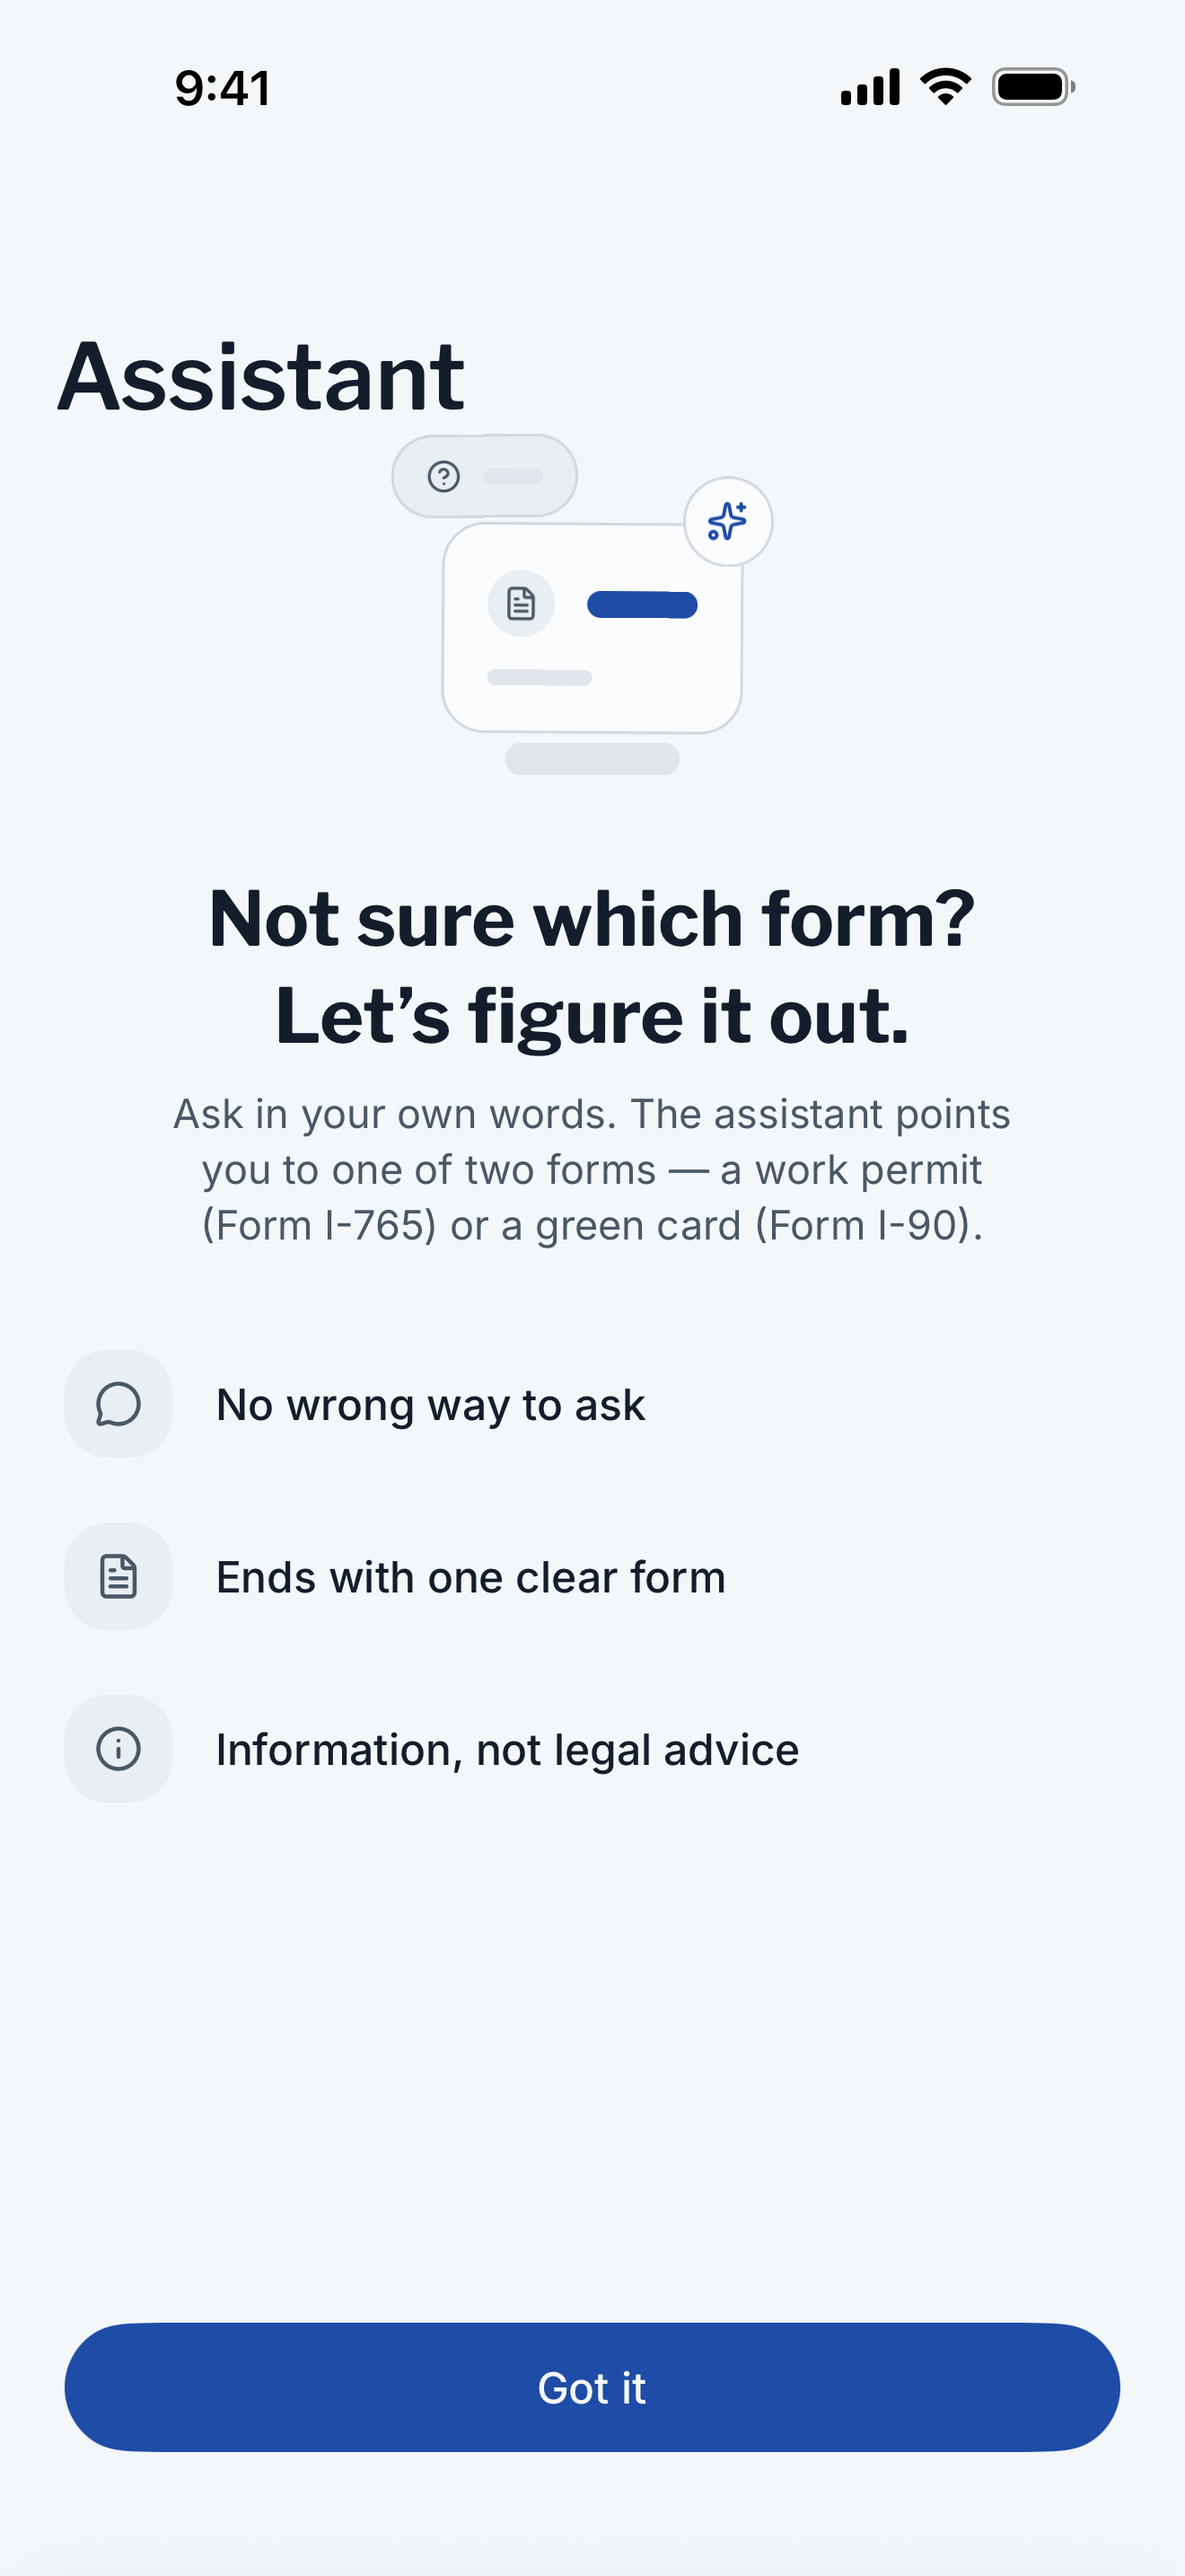
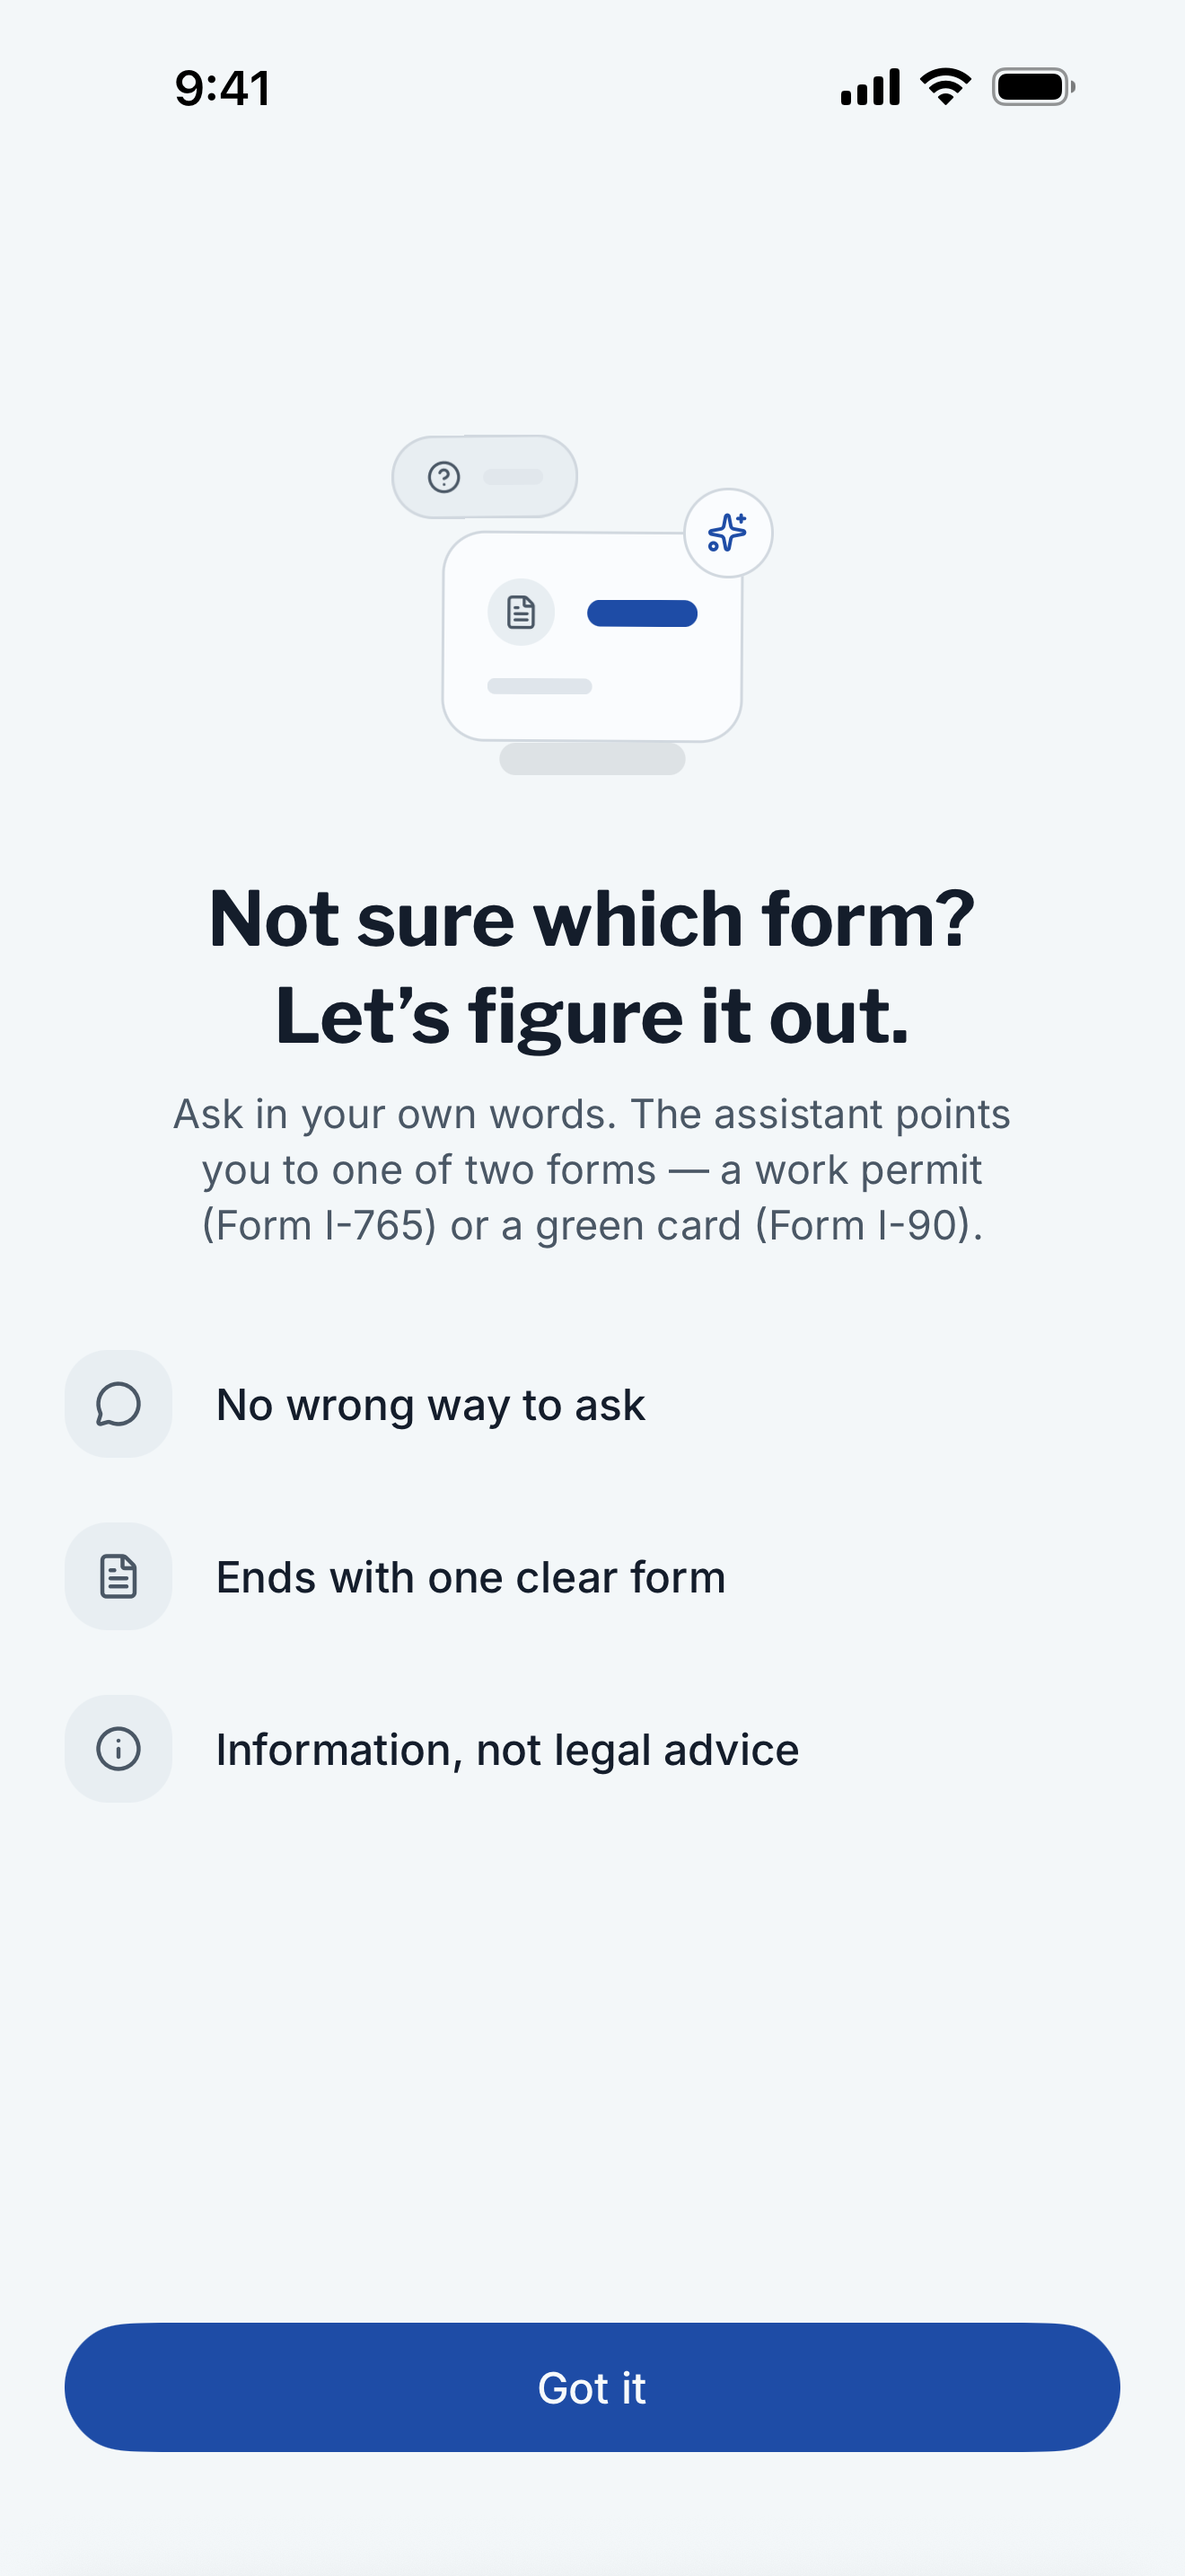
fix: hide the Assistant title while its tab intro is showing
The intro cover is absolute inside the tab content view, so it hides the large title of any tab whose root is a large-title ScrollView (Cases, Resources, Account). The assistant chat owns its own layout, so its title stays in the navigation bar above the cover and sat on top of the intro. TabIntro now accepts renderTitle, mirroring renderToolbar: the title receives the same hidden state as the native tab bar and returns while the cover is still opaque, so the same fade reveals it. Also refreshes the 6.9-inch assistant screenshot.

Changed region(s): [[0.0621, 0.1241, 0.4038, 0.2172], [0.497, 0.1862, 0.6523, 0.2483], [0.4038, 0.2172, 0.497, 0.2793]]

diff --git a/src/app/(tabs)/assistant/index.tsx b/src/app/(tabs)/assistant/index.tsx
@@ -9,51 +9,56 @@ import { View } from 'react-native'
  * it replaced sat on top of the Forms and Cases surfaces and was reported
  * as being in the way; a dedicated tab gives it room without crowding
  * either surface. The screen itself — navigator, quota, retry — is
- * unchanged from the bubble sheet. */
+ * unchanged from the bubble sheet.
+ *
+ * The title goes through the intro's `renderTitle` rather than sitting
+ * beside it: this screen owns its own layout instead of being a root
+ * large-title ScrollView, so its title lives in the navigation bar, above
+ * the intro cover. Handing it over withholds it for exactly as long as the
+ * tab bar is hidden. */
 export default function AssistantTab() {
 	const themeColorForeground = useThemeColor('foreground')
 	return (
-		<>
-			<Stack.Title
-				large
-				largeStyle={{
-					fontFamily: 'LibreFranklin_600SemiBold',
-					color: themeColorForeground,
-				}}
+		<View className="flex-1">
+			<TabIntro
+				prefKey="assistantIntroDismissed"
+				renderTitle={(hidden) => (
+					<Stack.Title
+						large
+						largeStyle={{
+							fontFamily: 'LibreFranklin_600SemiBold',
+							color: themeColorForeground,
+						}}
+					>
+						{hidden ? '' : 'Assistant'}
+					</Stack.Title>
+				)}
+				hero={<AssistantHero width={112} />}
+				title={'Not sure which form?\nLet’s figure it out.'}
+				body="Ask in your own words. The assistant points you to one of two forms — a work permit (Form I-765) or a green card (Form I-90)."
+				features={[
+					{
+						icon: 'message-circle',
+						title: 'No wrong way to ask',
+						detail:
+							'Describe your situation however it comes out — no form numbers or legal terms needed.',
+					},
+					{
+						icon: 'file-text',
+						title: 'Ends with one clear form',
+						detail:
+							'It narrows Form I-765 and Form I-90 down to the one that fits what you described.',
+					},
+					{
+						icon: 'info',
+						title: 'Information, not legal advice',
+						detail:
+							'For eligibility or a specific decision, it points you to an attorney or accredited representative.',
+					},
+				]}
 			>
-				Assistant
-			</Stack.Title>
-
-			<View className="flex-1">
-				<TabIntro
-					prefKey="assistantIntroDismissed"
-					hero={<AssistantHero width={112} />}
-					title={'Not sure which form?\nLet’s figure it out.'}
-					body="Ask in your own words. The assistant points you to one of two forms — a work permit (Form I-765) or a green card (Form I-90)."
-					features={[
-						{
-							icon: 'message-circle',
-							title: 'No wrong way to ask',
-							detail:
-								'Describe your situation however it comes out — no form numbers or legal terms needed.',
-						},
-						{
-							icon: 'file-text',
-							title: 'Ends with one clear form',
-							detail:
-								'It narrows Form I-765 and Form I-90 down to the one that fits what you described.',
-						},
-						{
-							icon: 'info',
-							title: 'Information, not legal advice',
-							detail:
-								'For eligibility or a specific decision, it points you to an attorney or accredited representative.',
-						},
-					]}
-				>
-					<AssistantScreen />
-				</TabIntro>
-			</View>
-		</>
+				<AssistantScreen />
+			</TabIntro>
+		</View>
 	)
 }

diff --git a/src/components/core/tab-intro.tsx b/src/components/core/tab-intro.tsx
@@ -66,6 +66,15 @@ type TabIntroProps = {
 	/** Native header actions for this tab. The callback stays mounted while its
 	 * buttons receive the same hidden state as the native tab bar. */
 	renderToolbar?: (hidden: boolean) => ReactNode
+	/** The tab's native large title, for tabs the cover cannot reach it on.
+	 * A tab whose root is a large-title ScrollView draws its title inside the
+	 * content area, so the cover already hides it; a tab that owns its own
+	 * layout (the assistant chat) keeps its title up in the navigation bar,
+	 * above the cover. Routing the title through this callback lets such a tab
+	 * withhold it for the same window the tab bar is hidden, so the intro is
+	 * one uninterrupted teaching surface everywhere. The title returns while
+	 * the cover is still fully opaque and is revealed by the same fade. */
+	renderTitle?: (hidden: boolean) => ReactNode
 	/** The tab's real content. It stays mounted behind the opaque cover so its
 	 * data is ready before the intro leaves, but cannot receive touch or
 	 * accessibility focus until the cover is gone. */
@@ -108,6 +117,7 @@ export function TabIntro({
 	features,
 	contentStartsBelowHeader = false,
 	renderToolbar,
+	renderTitle,
 	children,
 }: TabIntroProps) {
 	const liveInsets = useSafeAreaInsets()
@@ -253,6 +263,7 @@ export function TabIntro({
 	)
 	return (
 		<TabIntroTransitionContext value={contentAccessible}>
+			{renderTitle?.(chromeHidden)}
 			{renderToolbar?.(chromeHidden)}
 			<View collapsable={false} className="flex-1 bg-background">
 				<View
